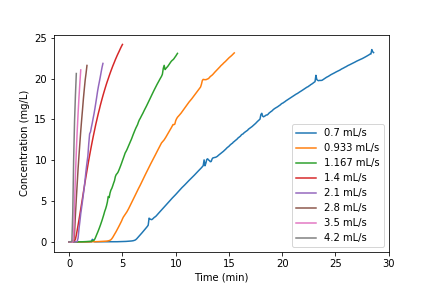
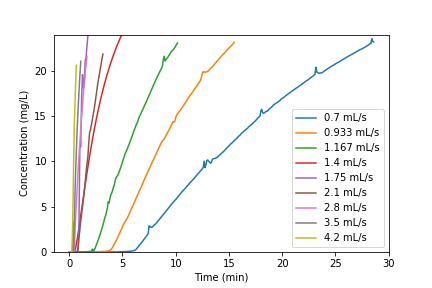
More plots

diff --git a/Project/team10_final_report.md b/Project/team10_final_report.md
@@ -225,21 +225,23 @@ plt.plot(time_data[6].to(u.min), C_data[6])
 plt.plot(time_data[7].to(u.min), C_data[7])
 plt.plot(time_data[8].to(u.min), C_data[8])
 plt.plot(time_data[9].to(u.min), C_data[9])
-plt.plot(time_data[10].to(u.min), C_data[10])
+plt.plot(time_data[10][0:25].to(u.min), C_data[10][0:25])
 plt.plot(time_data[11].to(u.min), C_data[11])
 plt.plot(time_data[12].to(u.min), C_data[12])
 plt.plot(time_data[13].to(u.min), C_data[13])
+plt.plot(time_data[14].to(u.min), C_data[14])
 plt.xlabel("Time (min)")
 plt.ylabel("Concentration (mg/L)")
-leg = plt.legend(('0.7 mL/s','0.933 mL/s','1.167 mL/s', '1.4 mL/s','2.1 mL/s','2.8 mL/s','3.5 mL/s','4.2 mL/s'), loc='best')
+plt.ylim(0,24)
+leg = plt.legend(('0.7 mL/s','0.933 mL/s','1.167 mL/s', '1.4 mL/s', '1.75 mL/s','2.1 mL/s','2.8 mL/s','3.5 mL/s','4.2 mL/s'), loc='best')
 plt.savefig("Project/Flows_1.png")
 plt.show()
 
 # Plot concentration against time for higher flow rates
-plt.plot(time_data[10].to(u.min), C_data[10])
 plt.plot(time_data[11].to(u.min), C_data[11])
 plt.plot(time_data[12].to(u.min), C_data[12])
 plt.plot(time_data[13].to(u.min), C_data[13])
+plt.plot(time_data[14].to(u.min), C_data[14])
 plt.xlim(right=2,left=0)
 plt.xlabel("Time (min)")
 plt.ylabel("Concentration (mg/L)")
@@ -252,9 +254,10 @@ plt.plot(time_data[6].to(u.min), C_data[6])
 plt.plot(time_data[7].to(u.min), C_data[7])
 plt.plot(time_data[8].to(u.min), C_data[8])
 plt.plot(time_data[9].to(u.min), C_data[9])
+plt.plot(time_data[10][0:25].to(u.min), C_data[10][0:25])
 plt.xlabel("Time (min)")
 plt.ylabel("Concentration (mg/L)")
-leg = plt.legend(('0.7 mL/s','0.933 mL/s','1.167 mL/s', '1.4 mL/s'), loc='best')
+leg = plt.legend(('0.7 mL/s','0.933 mL/s','1.167 mL/s', '1.4 mL/s', '1.75 mL/s'), loc='best')
 plt.savefig("Project/Flows_3.png")
 plt.show()
 
@@ -265,9 +268,10 @@ for i in range(len(filenames)):
     if (C_data[i][j-1] < C_45) and (C_data[i][j] > C_45):
       t_array[i] = (time_data[i][j].magnitude)
 
-plt.plot(Flow_rate[6:14], t_array[6:14], 'o')
+plt.plot(Flow_rate[6:15], t_array[6:15], 'o')
 plt.xlabel('Flow rate (mL/s)')
 plt.ylabel('Time to C/Co = 0.5 (s)')
 plt.xlim(right=4.5,left=0)
+plt.savefig("Project/Time_Flows.png")
 plt.show()
 ```
